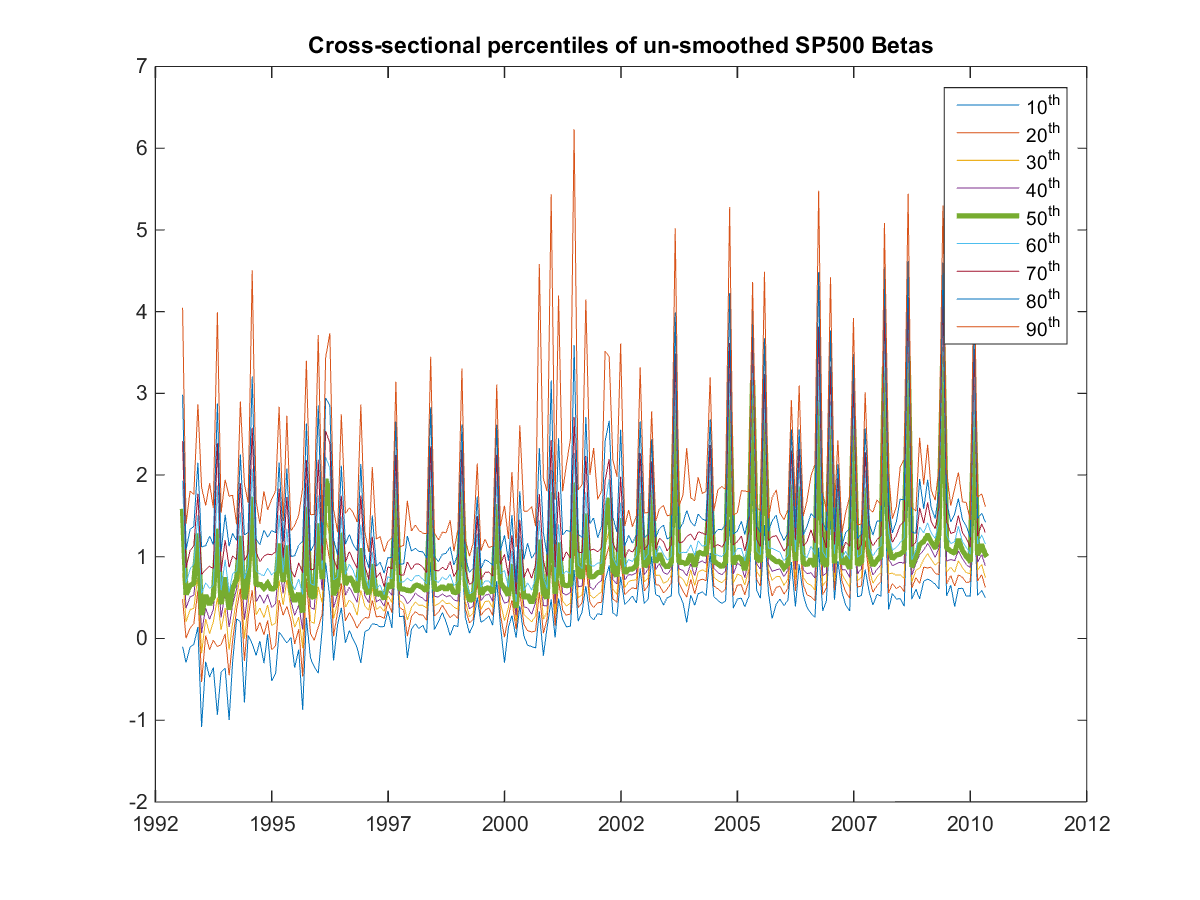
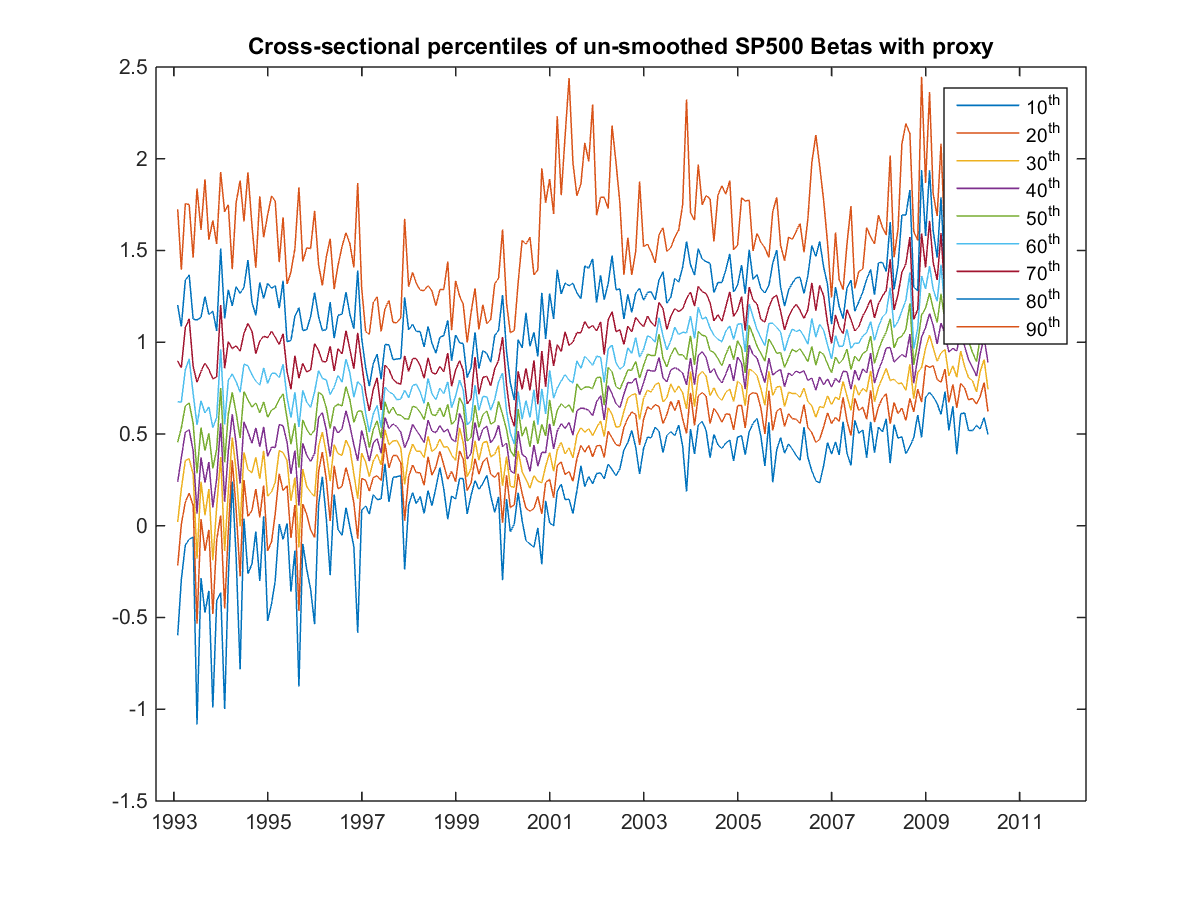
[Change] re-factor with sampledates to create betas qunatiles graphs

diff --git a/Tests.m b/Tests.m
@@ -485,10 +485,11 @@ end
 
 % All
 [refdates,~,subs] = unique(counts.Date);
-avgcounts      = accumarray(subs, counts.Nullrets,[],@mean);
+avgcounts         = accumarray(subs, counts.Nullrets,[],@mean);
 
 subplot(311)
-plot(datetime(yyyymmdd2serial(refdates),'ConvertFrom','datenum'),avgcounts)
+plotdates = datetime(yyyymmdd2serial(refdates),'ConvertFrom','datenum');
+plot(plotdates,avgcounts)
 title 'ALL: average # of null returns out of 78 daily returns'
 
 % Only sp500 members
@@ -497,7 +498,7 @@ subs      = ismembc2(counts.Date(isp500),refdates);
 avgcounts = accumarray(subs, counts.Nullrets(isp500),[],@mean);
 
 subplot(312)
-plot(datetime(yyyymmdd2serial(refdates),'ConvertFrom','datenum'),avgcounts)
+plot(plotdates,avgcounts)
 title 'SP500 members'
 
 % Spyders
@@ -508,7 +509,7 @@ pos         = ismembc2(spy.Date,refdates);
 counts(pos) = spy.Nullrets;
 
 subplot(313)
-plot(datetime(yyyymmdd2serial(refdates),'ConvertFrom','datenum'),counts)
+plot(plotdates,counts)
 title 'SPY'
 
 saveas(gcf,'.\results\NullRetCounts.png')
@@ -641,50 +642,59 @@ Betasw = dataset({unW(:,1),'ID'},{dates, 'Date'},{tmp, 'Week'});
 clearvars -except Betas Betasd Betasw ikeep resdir
 % save debugstate
 %% Beta quantiles
-% DAILY
+addpath .\utils\
+
+% Load Betas
+loadresults('Betas')
+if isa(Betas,'dataset'), Betas = dataset2table(Betas); end
+
 % Remove overlapping
-[un,~,subs] = unique(Betasd(:,{'ID','Date'}));
+[un,~,subs] = unique(Betas(:,{'UnID','Date'}));
 overlap     = un(accumarray(subs,1) > 1,:);
-[~,idx]     = setdiff(Betasd(:,1:2), overlap);
+[~,idx]     = setdiff(Betas(:,{'UnID','Date'}), overlap);
 % taq2crsp(ismember(taq2crsp.permno, taq2crsp.permno(taq2crsp.ID == overlap.ID(n))) | taq2crsp.ID == overlap.ID(n),:)
 
 % Select based on Shrcd
 loadresults('shrcd')
+if isa(shrcd,'dataset'), shrcd = dataset2table(shrcd); end
+
 loadresults('uniqueID')
-shrcd.ID = uniqueID.UnID;
-shrcd = shrcd(shrcd.Shrcd == 11 | shrcd.Shrcd == 10,{'ID','Date'});
+shrcd.UnID = uniqueID.UnID;
+shrcd = shrcd(shrcd.Shrcd == 11 | shrcd.Shrcd == 10,{'UnID','Date'});
 
-[~,pos] = ismember(Betasd(:,{'ID','Date'}), shrcd);
+[~,pos] = ismember(Betas(:,{'UnID','Date'}), shrcd);
 idx = intersect(idx, pos);
+Betas = Betas(idx,:);
 
-% Pivot
-tmp = Pivot([double(Betasd.ID(idx)), double(Betasd.Date(idx)) double(Betasd.SMA(idx))]);
+% Convert to double
+names = getVariableNames(Betas);
+Betas = varfun(@double, Betas);
+Betas = setVariableNames(Betas, names);
 
-% Add reference dates
-refdates       = serial2yyyymmdd(datenum(1993,2:234,1)-1);
-alldates       = union(tmp(2:end,1), refdates);
-[~,pdates]     = ismember(tmp(2:end,1),alldates);
-data           = NaN(numel(alldates),size(tmp,2)-1);
-data(pdates,:) = tmp(2:end,2:end);
-tmp            = [[NaN; alldates], [tmp(1,2:end); data]];
+% Pivot betas
+Betas = Pivot([Betas.UnID, Betas.Date, Betas.Beta]);
+import matlab.internal.tableUtils.*
+names = ['Date'; makeValidName(cellstr(num2str(Betas(1,2:end)')),'silent')];
+Betas = array2table(Betas(2:end,:));
+Betas = setVariableNames(Betas,names);
 
-% Fill in previous value
-tmp(2:end,2:end) = nanfillts(tmp(2:end,2:end),1);
+% Sample/expand
+refdates = serial2yyyymmdd(datenum(1993,2:234,1)-1);
+tmp = sampledates(Betas,refdates,1);
+tmp = nanfillts(table2array(tmp),1);
 
-% Keep reference dates only
-tmp = tmp([true; ismember(tmp(2:end,1), refdates)],:);
-
-% Check why not working
-tmp2 = unstack(dataset2table(Betasd(idx,{'Date','SMA','ID'})),'SMA','ID');
-tmp2 = sampledates(tmp2,refdates);
+% All days
+% refdates = Betas.Date;
+% tmp      = table2array(Betas);
 
 % Plot
-plot(yyyymmdd2serial(refdates), prctile(tmp(2:end,2:end),10:10:90,2))
-dynamicDateTicks
-title 'Cross-sectional percentiles of 5-day smoothed (SMA) betas - filtered by share type'
+plotdates = datetime(yyyymmdd2serial(refdates),'ConvertFrom','datenum');
+plot(plotdates, prctile(tmp(:,2:end),10:10:90,2))
+title 'Cross-sectional percentiles of all Betas with proxy'
 legend(arrayfun(@(x) sprintf('%d^{th} ',x),10:10:90,'un',0))
+saveas(gcf, '.\results\BetasAll_proxy.png')
 
-%% Size quantiles
+%% Size quantiles (unfinished)
 addpath .\utils\
 
 vars = {'cusip','symbol','datef'};
@@ -742,44 +752,45 @@ end
 isp500 = issp500member(Betas(:,{'Date','UnID'}));
 Betas  = Betas(isp500,{'Date','UnID','Beta'});
 
-% Convert to single
-Betas.Date = single(Betas.Date);
-Betas.UnID = single(Betas.UnID);
+% Convert to double
+names = getVariableNames(Betas);
+Betas = varfun(@double, Betas);
+Betas = setVariableNames(Betas, names);
 
 % Pivot betas
-tmp            = table2array(unstack(Betas,'Beta','UnID'));
-refdates       = single(serial2yyyymmdd(datenum(1993,2:234,1)-1));
-alldates       = union(tmp(:,1), refdates);
-[~,pdates]     = ismember(tmp(:,1),alldates);
-data           = NaN(numel(alldates),size(tmp,2)-1);
-data(pdates,:) = tmp(:,2:end);
-% Fill in previous value and get only reference dates
-data           = [alldates nanfillts(data,1)];
-Betas          = data(ismember(data(:,1), refdates),:);
+Betas = unstack(Betas,'Beta','UnID');
+
+% Sample/expand
+refdates = serial2yyyymmdd(datenum(1993,2:234,1)-1);
+tmp = sampledates(Betas,refdates,1);
+tmp = nanfillts(table2array(tmp),1);
+
+% All days
+% refdates = Betas.Date;
+% tmp      = table2array(Betas);
 
 % Plot
-plot(yyyymmdd2serial(refdates), prctile(Betas(:,2:end),10:10:90,2))
-dynamicDateTicks
-title 'Cross-sectional percentiles of un-smoothed SP500 Betas'
+plotdates = datetime(yyyymmdd2serial(refdates),'ConvertFrom','datenum');
+plot(plotdates, prctile(tmp(:,2:end),10:10:90,2))
+title 'Cross-sectional percentiles of un-smoothed SP500 Betas with proxy'
 legend(arrayfun(@(x) sprintf('%d^{th} ',x),10:10:90,'un',0))
 saveas(gcf, '.\results\BetasSP500_proxy.png')
 %% SP500 momentum
 addpath .\utils\
 spdir  = '.\data\CRSP';
 
-% Load TAQ2CRSP
-loadresults('taq2crsp')
-
-% Load SP consituents > 31/12/1992
-SPconst = dataset('File',fullfile(spdir,'dsp500list.csv'),'Delimiter',',','ReadVarNames',1);
-SPconst = SPconst(SPconst.ending > 19921231,:);
+% -----------------------------------------------------------------------
+% SPY
+% -----------------------------------------------------------------------
 
 % Load Betas
 loadresults('Betas')
+if isa(Betas,'dataset')
+    Betas = dataset2table(Betas);
+end
 
-% Filter out betas (lowest UnID for each PERMNO)
-selected = unique(taq2crsp(ismember(taq2crsp.permno, SPconst.PERMNO),{'permno','ID'}), 'permno','first');
-Betas    = Betas(ismember(Betas.UnID, selected.ID),{'UnID','Date','Beta'});
+% Filter out betas
+isp500 = issp500member(Betas(:,{'Date','UnID'}));
 
 % Load SPY (etf)
 loadname = 'spysampled';

diff --git a/sp500intraday.m b/sp500intraday.m
@@ -32,12 +32,12 @@ spconst.Panel   = sampledates(spconst.Panel,refdates);
 % Filter out by membership
 vnames = getVariableNames(spconst.Panel);
 for c = 2:size(spconst.Panel,2)
-    field = vnames{c};
-    dseshares.Panel.(field)(~spconst.Panel.(field)) = 0;
+    id = vnames{c};
+    dseshares.Panel.(id)(~spconst.Panel.(id)) = 0;
 end
 
 % Data matrix of number of shares
-sharesdata     = table2array(dseshares.Panel);
+sharesdata = table2array(dseshares.Panel);
 
 % Add permno to master
 [~,pos]           = ismember(master.mst.UnID,taq2crsp.ID);
